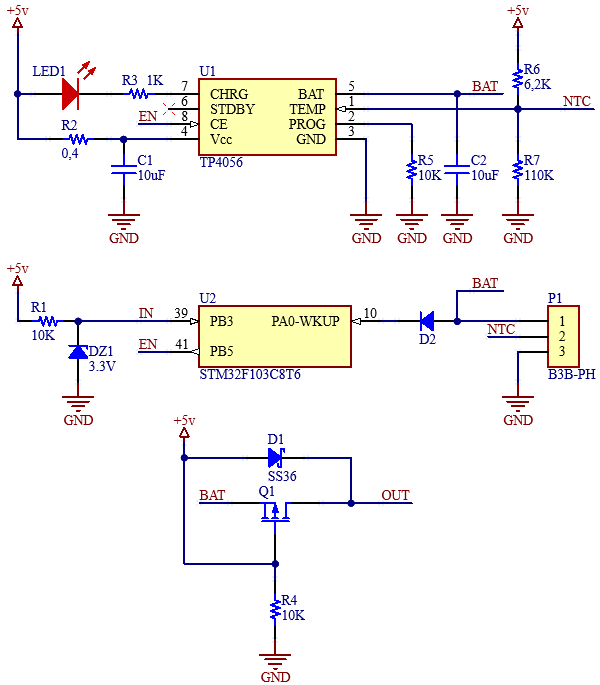
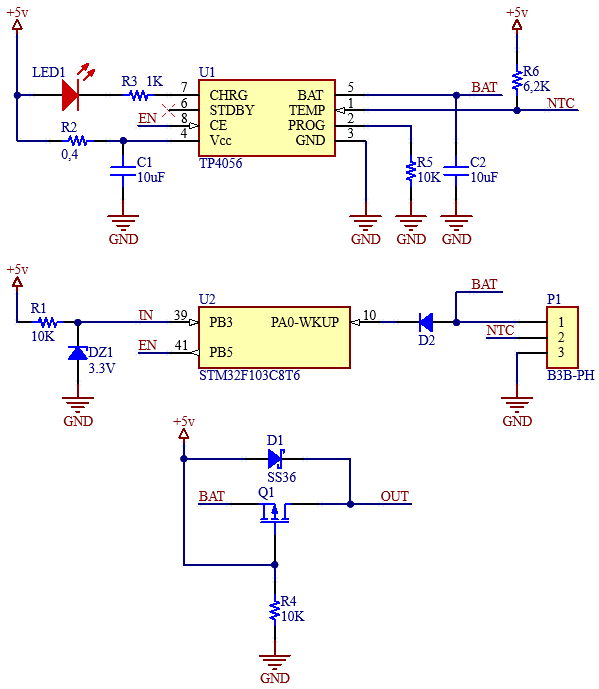
Editing README.md

diff --git a/battery_controller/README.md b/battery_controller/README.md
@@ -8,7 +8,7 @@
 
 <br/>
 <p align="center">
-    <img src="git_image/image.png" style="height: 685; width: 600; object-fit: contain">
+    <img src="git_image/image.png" style="height: 689; width: 599; object-fit: contain">
 </p>
 <br/>
 
